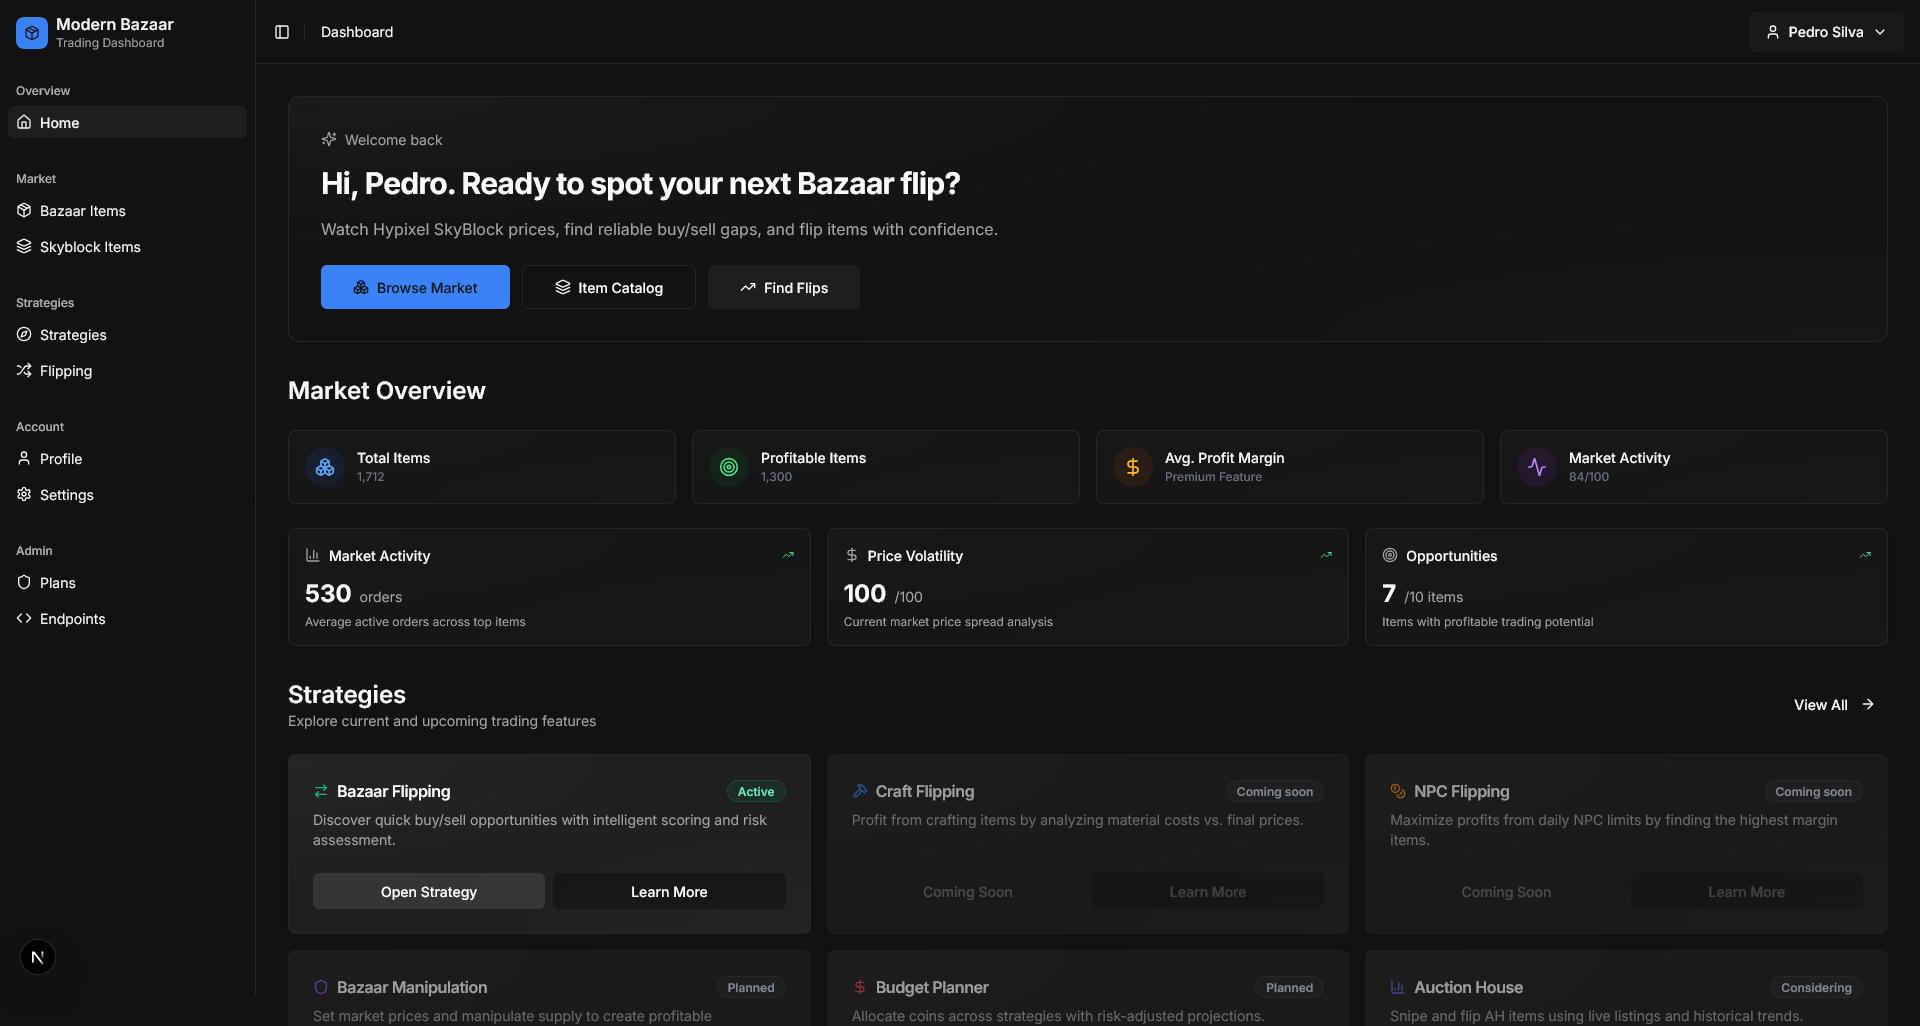
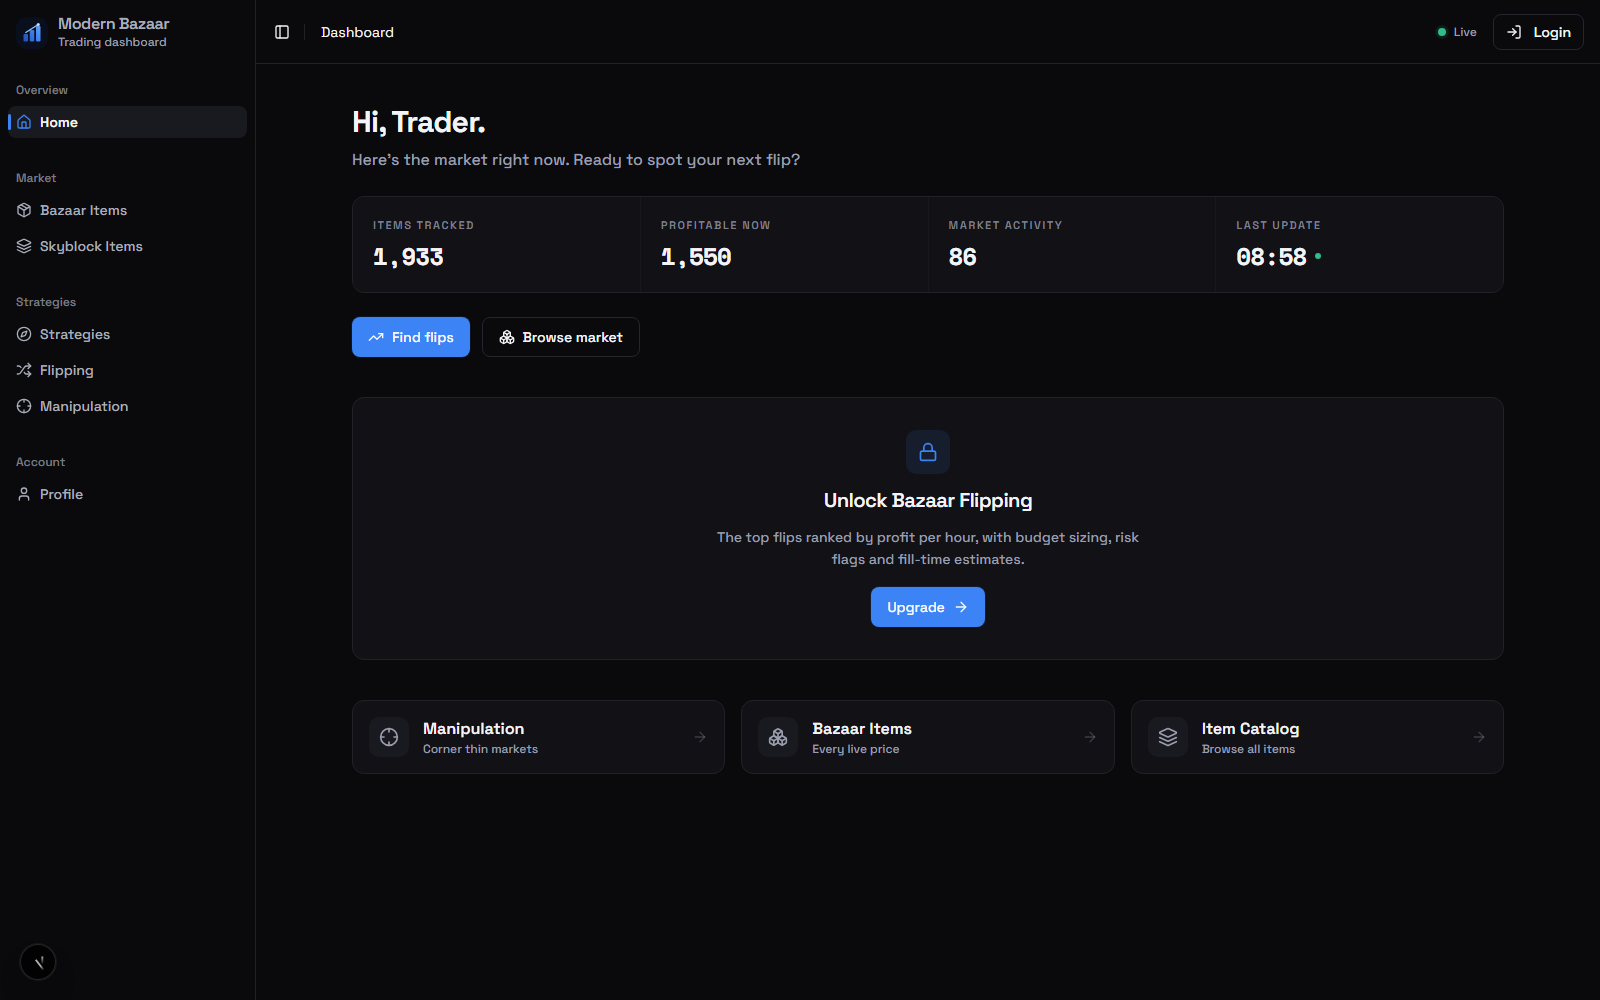
feat(ui): guard stat formatting, refresh hero preview to the new dashboard
Market-activity tile replaces the avg-margin tile (whose backend value blew up
to 7-digit percentages); counts render an en-dash when non-finite or out of
range so the UI never shows a nonsense number. Landing hero preview regenerated
from the redesigned dashboard.

diff --git a/dashboard/app/dashboard/page.tsx b/dashboard/app/dashboard/page.tsx
@@ -50,9 +50,9 @@ export default function Dashboard() {
 
         {/* Stat tiles: big tabular numbers, small labels */}
         <div className="grid grid-cols-2 gap-px overflow-hidden rounded-xl border bg-border/60 md:grid-cols-4">
-          <StatTile label="Items tracked" value={metrics ? metrics.totalItems.toLocaleString('en-US') : null} />
-          <StatTile label="Profitable now" value={metrics ? metrics.profitableItems.toLocaleString('en-US') : null} />
-          <StatTile label="Avg margin" value={metrics ? `${metrics.avgProfitMargin.toFixed(1)}%` : null} />
+          <StatTile label="Items tracked" value={metrics ? safeCount(metrics.totalItems) : null} />
+          <StatTile label="Profitable now" value={metrics ? safeCount(metrics.profitableItems) : null} />
+          <StatTile label="Market activity" value={metrics ? safeCount(metrics.marketActivityScore) : null} />
           <StatTile label="Last update" value={updated} live={!!updated} />
         </div>
 
@@ -115,6 +115,13 @@ export default function Dashboard() {
       </section>
     </div>
   )
+}
+
+/* Never show a nonsense number: anything non-finite or clearly out of range
+   renders as an em-width placeholder instead of screaming 2727887.4%. */
+function safeCount(n: number | undefined): string {
+  if (n === undefined || !Number.isFinite(n) || n < 0 || n > 10_000_000) return "–"
+  return Math.round(n).toLocaleString('en-US')
 }
 
 /* Big mono number, small label. Reserves the number's line so tiles never jump